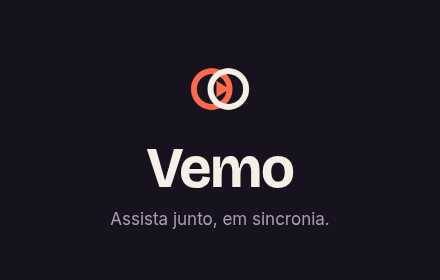
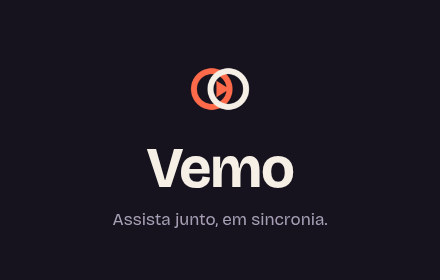
Imagens da loja com Bricolage Grotesque no lugar da Inter

Changed region(s): [[0.2364, 0.7429, 0.7386, 0.8286]]

diff --git a/scripts/store-assets.js b/scripts/store-assets.js
@@ -29,7 +29,7 @@ const STATUS_IN = {
   roomMedia: { title: 'Documentário da noite' },
 };
 
-const FONTS = `<link href="https://fonts.googleapis.com/css2?family=Bricolage+Grotesque:opsz,wght@12..96,500;12..96,700&family=Inter:wght@400;500&display=swap" rel="stylesheet">`;
+const FONTS = `<link href="https://fonts.googleapis.com/css2?family=Bricolage+Grotesque:opsz,wght@12..96,400;12..96,500;12..96,700&display=swap" rel="stylesheet">`;
 
 async function popupShot(browser, status) {
   const page = await browser.newPage();
@@ -53,10 +53,10 @@ async function popupShot(browser, status) {
 const base = `
   :root { --bg: #16131f; --surface: #211d2c; --line: #342e42; --text: #f5efe6; --muted: #a69fb4; --accent: #ff6b4a; }
   * { box-sizing: border-box; margin: 0; }
-  body { width: 1280px; height: 800px; overflow: hidden; background: var(--bg); color: var(--text); font-family: Inter, sans-serif; }
-  .eyebrow { display: flex; align-items: center; gap: 10px; font: 500 15px Inter; letter-spacing: .14em; text-transform: uppercase; color: var(--accent); }
+  body { width: 1280px; height: 800px; overflow: hidden; background: var(--bg); color: var(--text); font-family: 'Bricolage Grotesque', sans-serif; }
+  .eyebrow { display: flex; align-items: center; gap: 10px; font: 500 15px 'Bricolage Grotesque'; letter-spacing: .14em; text-transform: uppercase; color: var(--accent); }
   h1 { font: 700 60px/1.04 'Bricolage Grotesque'; letter-spacing: -0.02em; }
-  p.sub { font: 400 20px/1.5 Inter; color: var(--muted); }
+  p.sub { font: 400 20px/1.5 'Bricolage Grotesque'; color: var(--muted); }
   .popup { border-radius: 14px; border: 1px solid var(--line); box-shadow: 0 30px 80px rgba(0,0,0,.45); display: block; }
 `;
 
@@ -103,9 +103,9 @@ function screenshot2(icon) {
     .bar { position: relative; height: 6px; margin: 18px 4px 10px; border-radius: 3px; background: var(--line); }
     .fill { width: 37%; height: 100%; border-radius: 3px; background: var(--accent); }
     .knob { position: absolute; left: 37%; top: 50%; width: 16px; height: 16px; margin: -8px 0 0 -8px; border-radius: 50%; background: var(--text); }
-    .row { display: flex; justify-content: space-between; font: 500 15px Inter; color: var(--muted); padding: 0 4px; }
-    .who { margin-top: 14px; padding: 0 4px; font: 500 18px Inter; }
-    .link { display: grid; place-items: center; gap: 10px; color: var(--accent); font: 500 13px Inter; letter-spacing: .1em; text-transform: uppercase; }
+    .row { display: flex; justify-content: space-between; font: 500 15px 'Bricolage Grotesque'; color: var(--muted); padding: 0 4px; }
+    .who { margin-top: 14px; padding: 0 4px; font: 500 18px 'Bricolage Grotesque'; }
+    .link { display: grid; place-items: center; gap: 10px; color: var(--accent); font: 500 13px 'Bricolage Grotesque'; letter-spacing: .1em; text-transform: uppercase; }
     .link .line { width: 56px; height: 2px; background: repeating-linear-gradient(90deg, var(--accent) 0 8px, transparent 8px 14px); }
   </style></head><body><div class="wrap">
     <div class="head">
@@ -125,7 +125,7 @@ function promo(icon) {
     body { width: 440px; height: 280px; display: grid; place-items: center; }
     .box { display: grid; justify-items: center; gap: 12px; }
     .name { font: 700 58px/1 'Bricolage Grotesque'; letter-spacing: -0.02em; }
-    .tag { font: 400 17px Inter; color: var(--muted); }
+    .tag { font: 400 17px 'Bricolage Grotesque'; color: var(--muted); }
   </style></head><body><div class="box">
     <img src="${icon}" width="76" height="76">
     <div class="name">Vemo</div>
